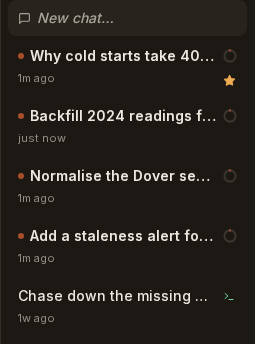
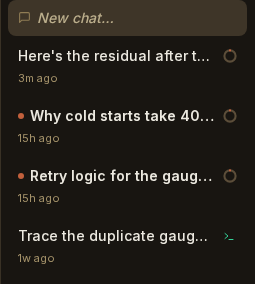
chore: drop the captures from this PR — they ship in #829
The stills were pushed onto this branch by a concurrent worker. This PR is the
rig and the tooling, which is code-shaped and independently reviewable; the
frames it produces are a separate review with separate criteria.

diff --git a/website/src/content/docs/using/working-in-chats.md b/website/src/content/docs/using/working-in-chats.md
@@ -77,7 +77,7 @@ terminal icon) so you can tell them from chats started here — see
 [Provenance](/concepts/provenance/). They are *not* counted as unattended runs:
 you had those conversations, just somewhere else.
 
-![A chat list in which one row, "Chase down the missing archi…", carries a small emerald terminal icon at its right edge marking it as adopted; the four chats above it have no badge](../../../assets/using/adopted-badge.png)
+![A chat list in which one row, "Trace the duplicate gaug…", carries a small emerald terminal icon at its right edge marking it as adopted; the three chats above it have no badge](../../../assets/using/adopted-badge.png)
 
 :::note[When Paddock can't see your `~/.claude`]
 A containerised instance only sees what is mounted. Mount the history at the
